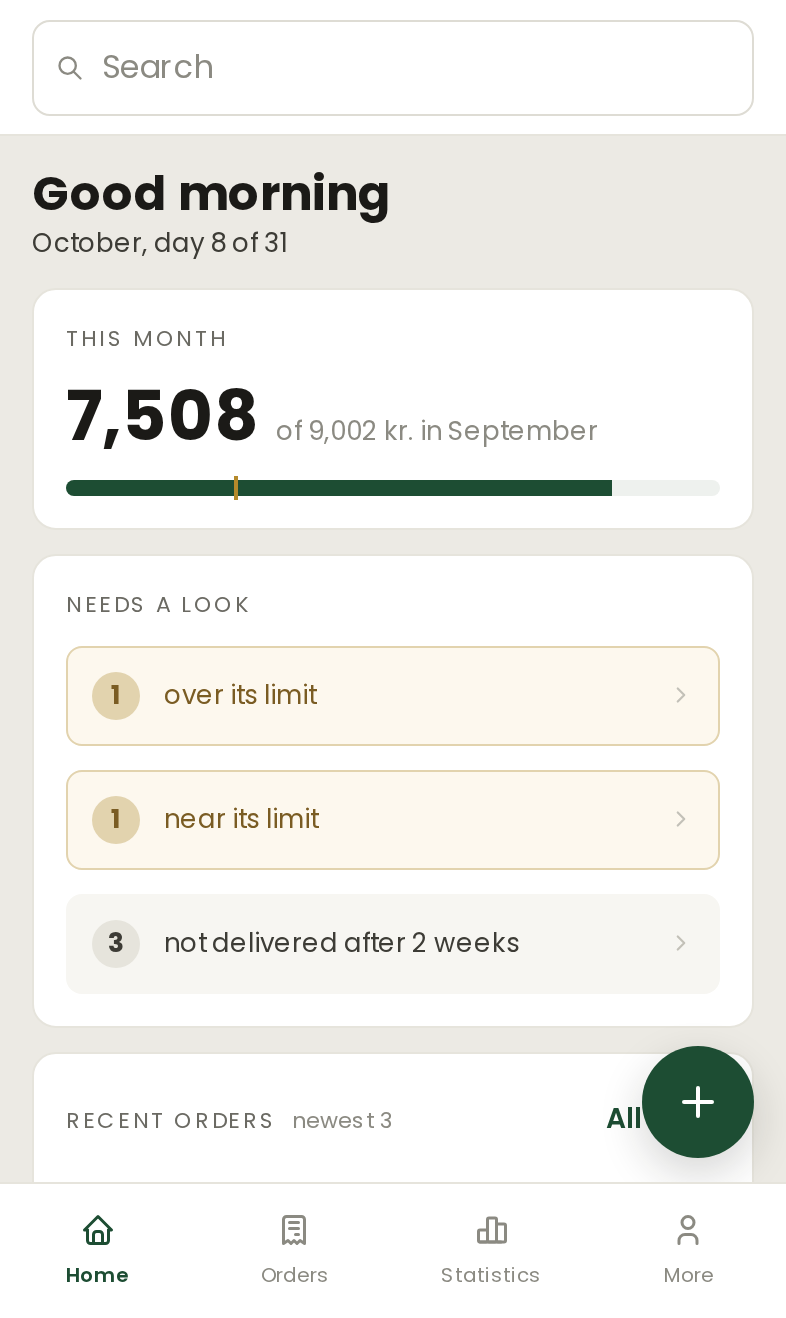
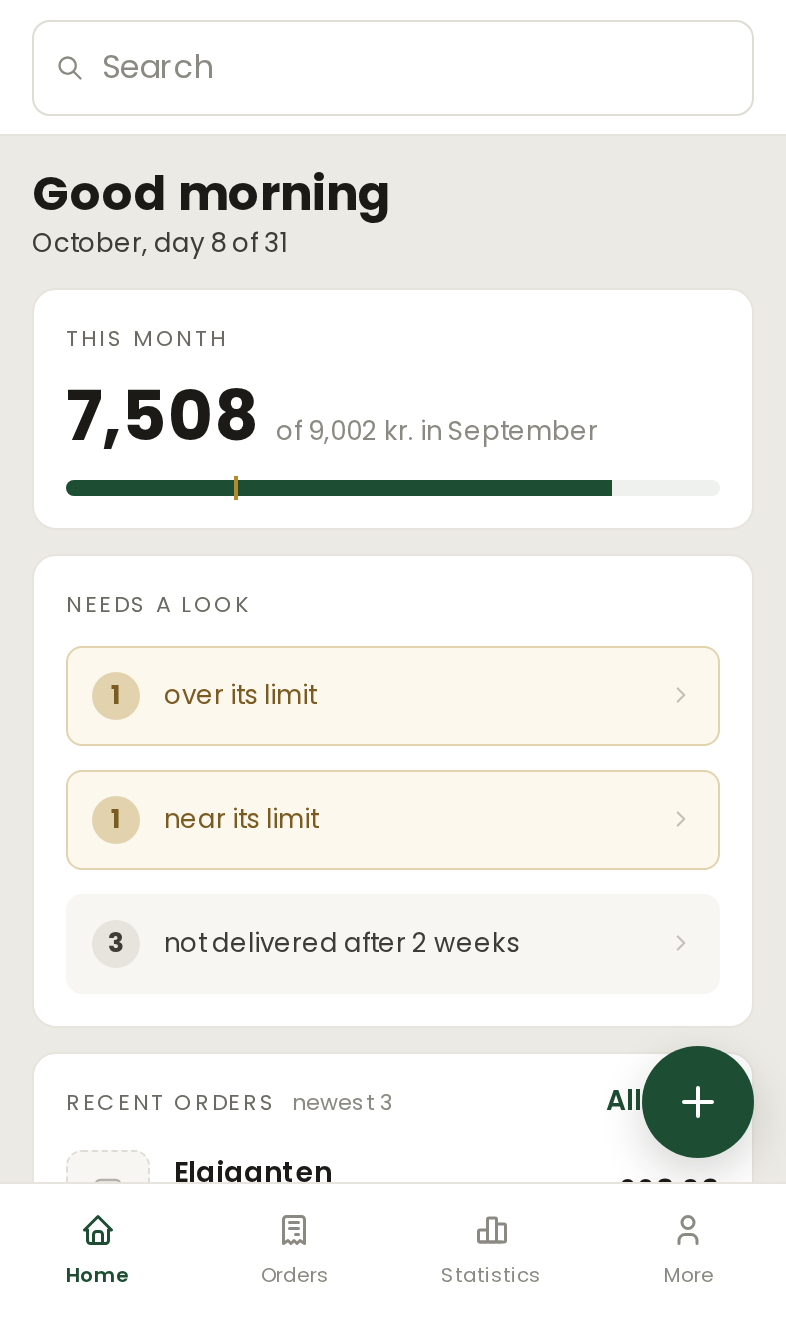
Copy in the design's card head fix, where a link takes no height in the row
On a phone every Home card's name now sits the same distance below its top edge, with or
without a link, and the phone screenshot is rendered again for it.

Changed region(s): [[0.2137, 0.8088, 0.4885, 0.9021], [0.0916, 0.8088, 0.1832, 0.9021], [0.7634, 0.8088, 0.8244, 0.871]]

diff --git a/react/src/styles/components.css b/react/src/styles/components.css
@@ -1697,11 +1697,13 @@ label.sp-option--swatch[aria-pressed="true"]:has(:focus-visible) {
 .sp-touch .sp-topbar .sp-btn:not(.sp-btn--block) { width: auto; }
 /* A text link in a card's head ("All 5" on Drafts, "All 248" on Recent orders) keeps the
    small button's 34px box on touch and takes the touch height as a hit area above and
-   below, so a head with a link is as tall as one without and the name sits the same
-   distance from the card's top edge on every card (Brief 32). The area reaches into the
-   card's padding above and the gap below, which both exceed it. */
+   below. Its box is drawn but takes no height in the row: a negative margin of half the
+   box on each side brings its outer height to zero, so the row is as tall as the name
+   and the name sits the same distance from the card's top edge on every card (Brief 32,
+   33). The link stays on the name's baseline; the box reaches 8.5 into the card's
+   padding above and the gap below, which both exceed it. */
 .sp-touch .sp-list__toolbar > .sp-btn--text,
-.sp-touch .sp-card > .sp-row-flex:first-child > .sp-btn--text { min-height: 0; position: relative; }
+.sp-touch .sp-card > .sp-row-flex:first-child > .sp-btn--text { min-height: 0; position: relative; margin-block: calc(34px / -2); }
 .sp-touch .sp-list__toolbar > .sp-btn--text::before,
 .sp-touch .sp-card > .sp-row-flex:first-child > .sp-btn--text::before { content: ""; position: absolute; inset: calc((var(--control-h-touch) - 34px) / -2) 0; }
 /* two commits sharing a row each take half of it */
@@ -1720,7 +1722,7 @@ label.sp-option--swatch[aria-pressed="true"]:has(:focus-visible) {
   .sp-btn:not(.sp-btn--small, .sp-btn--xsmall) { width: 100%; }
   /* the head link rule above, for the shell's own query */
   .sp-list__toolbar > .sp-btn--text,
-  .sp-card > .sp-row-flex:first-child > .sp-btn--text { min-height: 0; position: relative; }
+  .sp-card > .sp-row-flex:first-child > .sp-btn--text { min-height: 0; position: relative; margin-block: calc(34px / -2); }
   .sp-list__toolbar > .sp-btn--text::before,
   .sp-card > .sp-row-flex:first-child > .sp-btn--text::before { content: ""; position: absolute; inset: calc((var(--control-h-touch) - 34px) / -2) 0; }
 }
